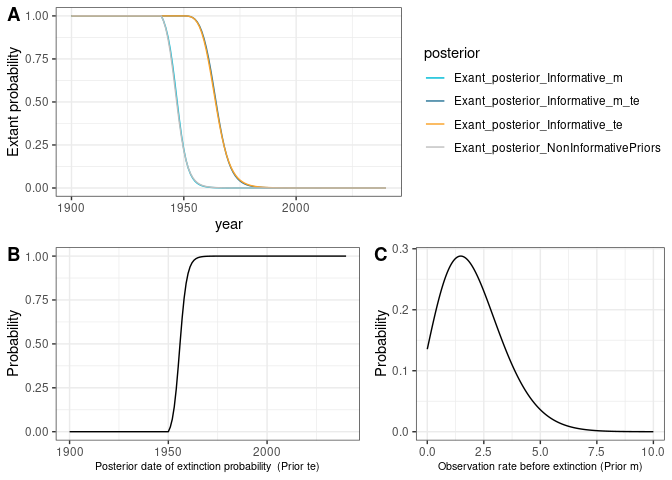
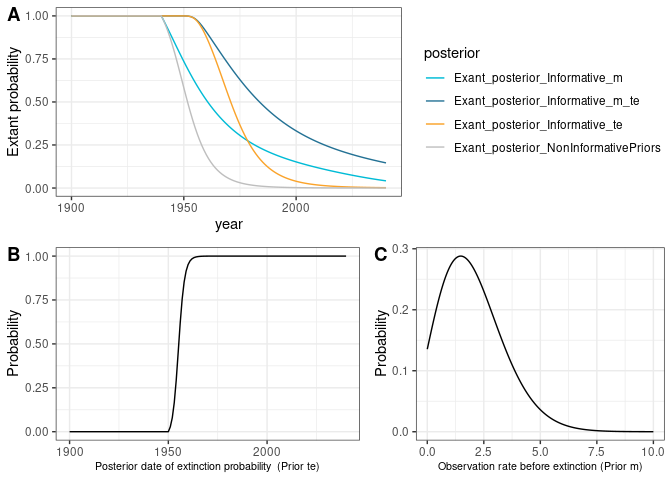
figure3

diff --git a/README.md b/README.md
@@ -131,6 +131,7 @@ library(dplyr)
 #>     intersect, setdiff, setequal, union
 library(ggplot2)
 library(ggpubr)
+set.seed(12)
 
 # Create a realistic data set of observations 
 n = 40 # number of years with observational data
